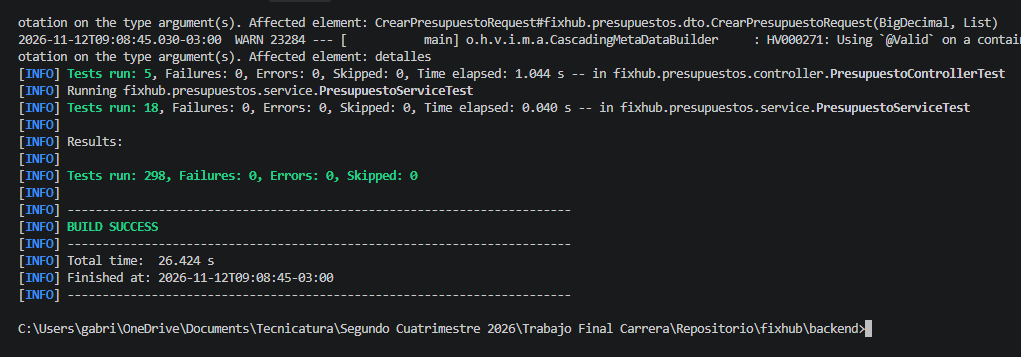
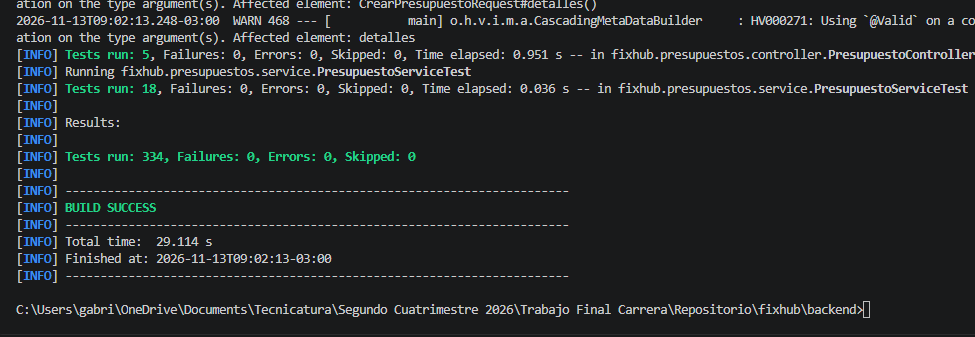
docs: corregir multiroles, DER y pruebas del backend en el informe

Changed region(s): [[0.0, 0.0, 1.0, 0.8605], [0.0, 0.8902, 0.8923, 0.9496]]

diff --git a/docs/informe-final.md b/docs/informe-final.md
@@ -42,14 +42,14 @@ De ese funcionamiento el equipo identificó problemas puntuales: no había una f
 
 ### 1.2 Usuarios y actores
 
-El sistema contempla cuatro roles, que pueden acumularse en una misma cuenta:
+El sistema contempla cuatro roles. Los tres roles internos (Administrador, Recepcionista y Técnico) pueden combinarse en una misma cuenta, que acumula sus permisos. El rol Cliente es exclusivo y no se combina con los internos:
 
 - **Administrador:** gestiona usuarios, roles, clientes, repuestos y stock, y puede consultar toda la información del sistema.
 - **Recepcionista:** atiende al cliente, registra clientes y equipos, crea órdenes de trabajo, asigna técnicos, publica presupuestos y registra la entrega del equipo.
 - **Técnico:** trabaja sobre las órdenes que tiene asignadas: diagnostica, registra tareas, repara y declara los repuestos consumidos.
 - **Cliente:** accede a un portal propio para ver sus equipos, el estado de sus reparaciones y sus presupuestos, y para aprobarlos o rechazarlos.
 
-Una misma cuenta podrá tener uno o varios roles simultáneamente. La cantidad de actores puede variar según el contexto en el que se emplee el sistema (Taller pequeño o grande). 
+Una cuenta interna podrá tener uno o varios de los roles Administrador, Recepcionista y Técnico simultáneamente, mientras que una cuenta con rol Cliente no podrá tener ningún otro rol. La cantidad de actores puede variar según el contexto en el que se emplee el sistema (Taller pequeño o grande). 
 
 ### 1.3 Evidencia de validación del problema
 
@@ -98,13 +98,13 @@ Además, el modelo mantiene restricciones deliberadas de simplicidad: cada orden
 
 El modelo relacional tiene 15 tablas. Se agrupan en cuatro áreas: accesos (`usuarios`, `roles`, `usuarios_roles`), clientes y equipos (`clientes`, `equipos`), órdenes (`estados_orden`, `ordenes_trabajo`, `diagnosticos`, `registros_tecnicos`, `historial_ordenes`) y presupuestos e inventario (`presupuestos`, `detalles_presupuesto`, `repuestos`, `consumos_repuesto`, `movimientos_stock`).
 
-Los puntos centrales del modelo son los siguientes. Un cliente está ligado a exactamente una cuenta de usuario (clave única en `clientes.usuario_id`), y un usuario puede tener varios roles a través de la tabla intermedia. Cada equipo pertenece a un cliente, y cada orden de trabajo se asocia a un equipo, a un estado y, opcionalmente, a un técnico, que es un usuario. Cada orden tiene como máximo un diagnóstico (clave única en `diagnosticos.orden_id`) y como máximo un presupuesto (clave única en `presupuestos.orden_id`). Las líneas del presupuesto referencian repuestos, y cada consumo real de repuesto se vincula con un movimiento de stock.
+Los puntos centrales del modelo son los siguientes. Un cliente está ligado a exactamente una cuenta de usuario (clave única en `clientes.usuario_id`), y un usuario está asociado a lo sumo a un cliente: las cuentas internas no tienen ninguno. Un usuario puede tener varios roles a través de la tabla intermedia, con la restricción de que el rol Cliente no se combina con los internos. Cada equipo pertenece a un cliente, y cada orden de trabajo se asocia a un equipo, a un estado y, opcionalmente, a un técnico, que es un usuario. Cada orden tiene como máximo un diagnóstico (clave única en `diagnosticos.orden_id`) y como máximo un presupuesto (clave única en `presupuestos.orden_id`). Las líneas del presupuesto referencian repuestos, y cada consumo real de repuesto se vincula con un movimiento de stock.
 
 ```mermaid
 erDiagram
     USUARIOS ||--o{ USUARIOS_ROLES : tiene
     ROLES ||--o{ USUARIOS_ROLES : asignado
-    USUARIOS ||--|| CLIENTES : "cuenta de"
+    USUARIOS ||--o| CLIENTES : "cuenta de"
     CLIENTES ||--o{ EQUIPOS : posee
     EQUIPOS ||--o{ ORDENES_TRABAJO : "recibe"
     USUARIOS |o--o{ ORDENES_TRABAJO : "tecnico responsable"
@@ -177,7 +177,7 @@ El diccionario de datos completo y la justificación del diseño están en [docs
 
 Las reglas siguientes están implementadas en el backend. Se indica entre paréntesis dónde se aplican.
 
-**Acceso y cuentas.** Una cuenta puede tener varios roles y acumula sus permisos. Cada cliente se vincula con una única cuenta, y un cliente que ya tiene cuenta la reutiliza para nuevos equipos y órdenes. No existe registro público de usuarios: las cuentas las crea personal autorizado. La cuenta nueva nace con una clave temporal y el indicador `requiere_cambio_clave` activo; mientras ese indicador esté activo, un filtro de seguridad bloquea el uso del resto de la API hasta que se cambie la clave (`CambioClaveObligatorioFilter`). Se puede ingresar con correo electrónico o con teléfono.
+**Acceso y cuentas.** Los roles internos (Administrador, Recepcionista y Técnico) pueden combinarse en una misma cuenta, que acumula sus permisos. El rol Cliente es exclusivo: el backend rechaza combinarlo con roles internos (`UsuarioService`). Las contraseñas no pueden estar formadas solo por dígitos, y la nueva clave debe ser distinta de la actual. Cada cliente se vincula con una única cuenta, y un cliente que ya tiene cuenta la reutiliza para nuevos equipos y órdenes. No existe registro público de usuarios: las cuentas las crea personal autorizado. La cuenta nueva nace con una clave temporal y el indicador `requiere_cambio_clave` activo; mientras ese indicador esté activo, un filtro de seguridad bloquea el uso del resto de la API hasta que se cambie la clave (`CambioClaveObligatorioFilter`). Se puede ingresar con correo electrónico o con teléfono.
 
 **Órdenes de trabajo.** Toda orden se asocia a un equipo y, por medio de él, a un cliente. Las transiciones de estado válidas son las del diagrama siguiente, y cualquier otra se rechaza con `TransicionEstadoInvalidaException`. Una orden puede crearse sin técnico, pero necesita uno antes de pasar a `EN_DIAGNOSTICO` (`TecnicoRequeridoException`). Las transiciones técnicas solo las puede hacer el técnico asignado. La cancelación solo está permitida desde `RECIBIDA`, `EN_DIAGNOSTICO`, `PENDIENTE_APROBACION` y `APROBADA` (`OrdenNoCancelableException`), exige un motivo y queda en el historial. Cada asignación de técnico, cambio de estado y cancelación se registra en `historial_ordenes`.
 
@@ -329,7 +329,7 @@ Del código se desprenden varias soluciones a problemas técnicos: la protecció
 
 ### 6.1 Qué se probó
 
-El backend cuenta con 39 clases de prueba y 224 métodos de prueba automáticos (JUnit). Cubren la seguridad (generación y validación del JWT, respuestas 401 y 403, servicio de usuarios), los controllers (con las reglas de acceso por rol), los services con sus reglas de negocio, los repositories y las transacciones, y los inicializadores de roles, estados y administrador. Las pruebas que necesitan persistencia usan H2 en memoria en modo compatible con MySQL.
+El backend cuenta con 41 clases de prueba y 263 métodos de prueba automáticos (JUnit), 229 simples y 34 parametrizados. Cubren la seguridad (generación y validación del JWT, respuestas 401 y 403, servicio de usuarios, exclusividad del rol Cliente y política de contraseñas), los controllers (con las reglas de acceso por rol), los services con sus reglas de negocio, los repositories y las transacciones, y los inicializadores de roles, estados y administrador. Las pruebas que necesitan persistencia usan H2 en memoria en modo compatible con MySQL.
 
 Se ejecutan desde la carpeta `backend`:
 
@@ -338,7 +338,7 @@ Se ejecutan desde la carpeta `backend`:
 ./mvnw verify    # además compila y empaqueta el JAR
 ```
 
-La última ejecución completa de `./mvnw test`, realizada el 12/11/2026, resultó en **298 pruebas ejecutadas, 0 fallas, 0 errores y 0 omitidas**, con el resultado `BUILD SUCCESS` en 26,4 segundos. La cantidad de ejecuciones supera la de métodos de prueba porque varios son parametrizados y se ejecutan una vez por cada conjunto de valores.
+La última ejecución completa de `./mvnw test`, realizada el 13/11/2026, resultó en **334 pruebas ejecutadas, 0 fallas, 0 errores y 0 omitidas**, con el resultado `BUILD SUCCESS` en 29,1 segundos. La cantidad de ejecuciones supera la de métodos de prueba porque varios son parametrizados y se ejecutan una vez por cada conjunto de valores.
 
 ![Figura 7. Resultado de la ejecución de las pruebas](img/captura-tests.png)
 
